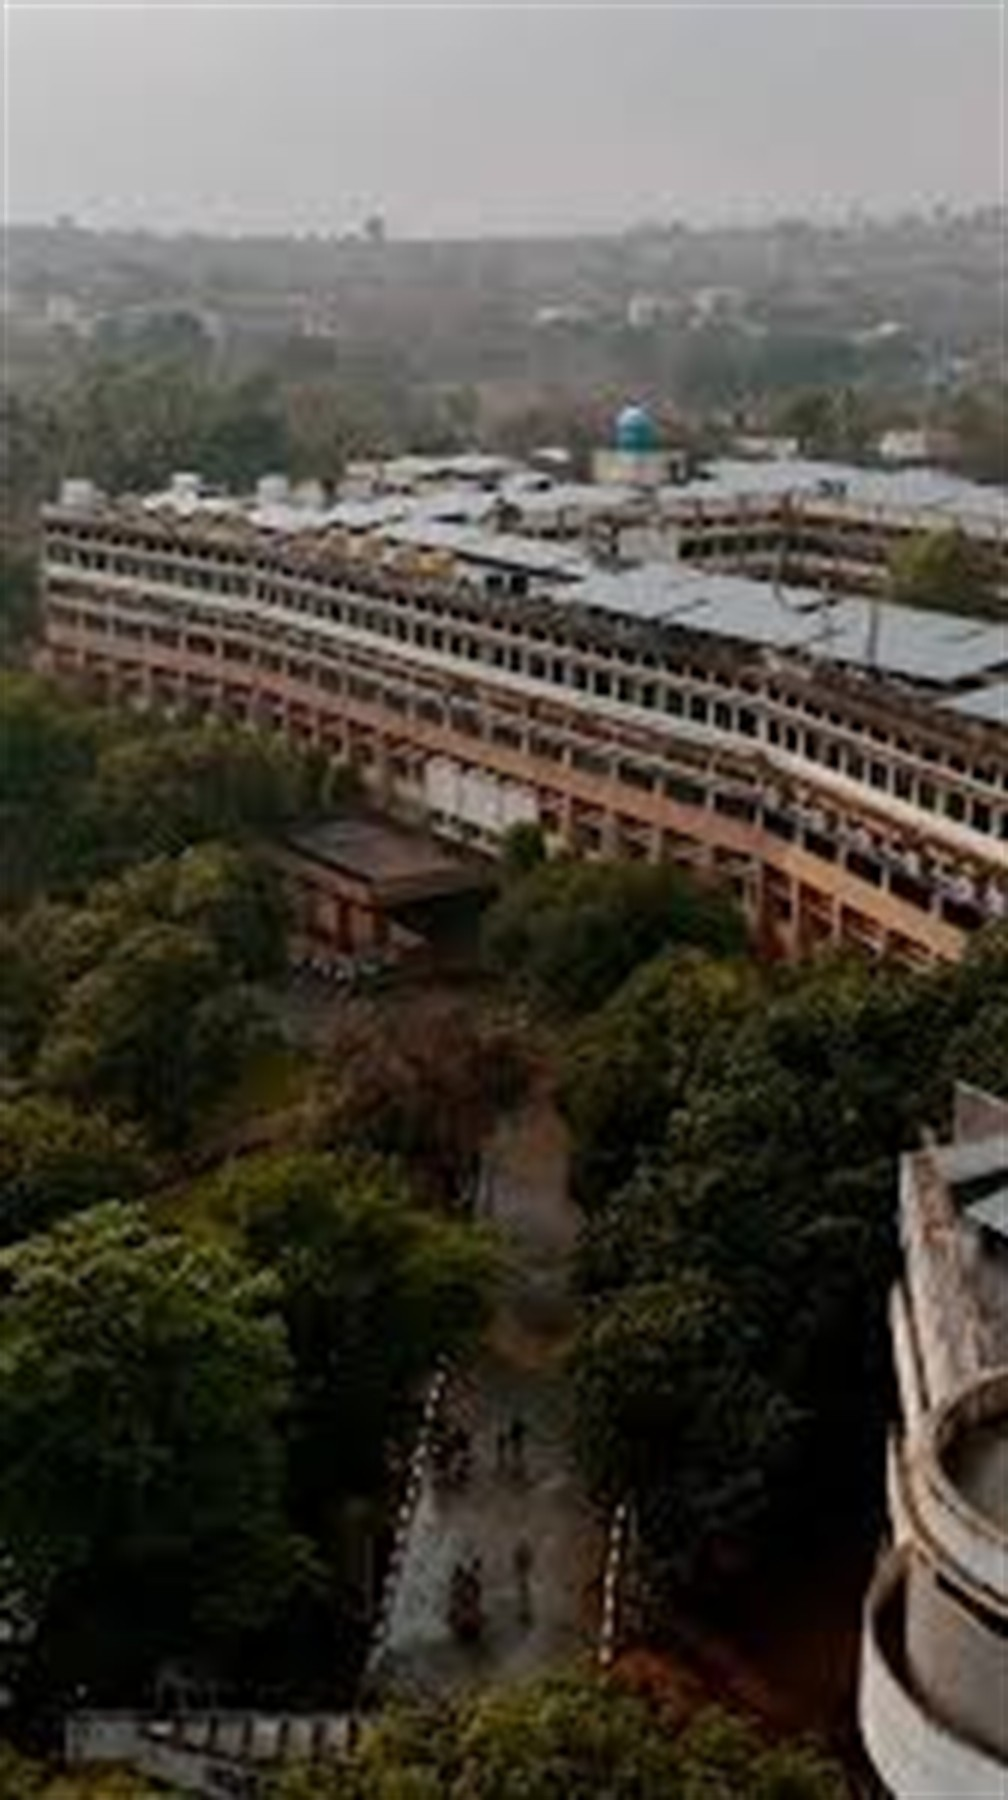
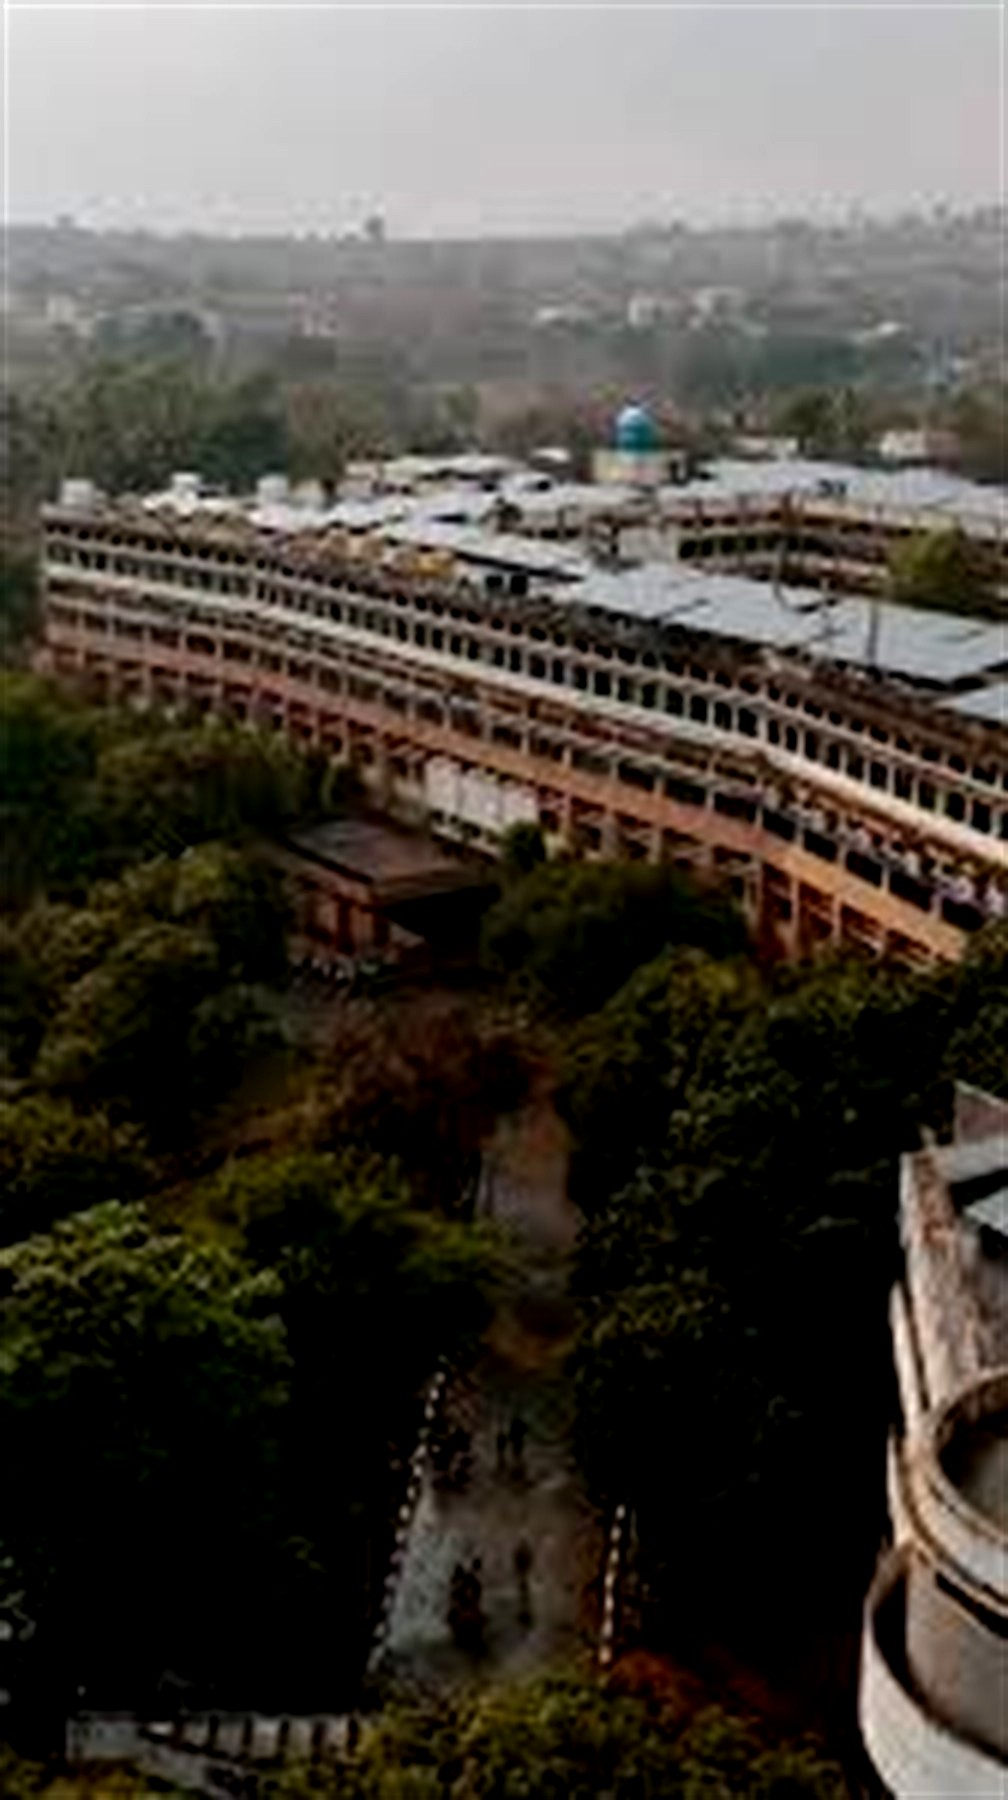
Remove white overlay filters and boost section photo clarity and contrast

Changed region(s): [[0.0, 0.0, 0.0308, 0.0311]]

diff --git a/src/main/resources/static/css/style.css b/src/main/resources/static/css/style.css
@@ -2018,23 +2018,19 @@ tbody td:first-child { color: var(--text-primary); font-weight: 600; }
 .section-aerial-bg,
 .section-entrance-bg {
   position: relative;
-  border: 1.5px solid rgba(226, 232, 240, 0.95);
+  border: 1.5px solid rgba(255, 255, 255, 0.9);
   border-radius: 28px;
   padding: 38px 30px 42px;
   margin-bottom: 55px;
-  box-shadow: 0 14px 42px -6px rgba(15, 23, 42, 0.10), 0 0 1px 1px rgba(15, 23, 42, 0.04);
+  box-shadow: 0 16px 45px rgba(15, 23, 42, 0.14);
 }
 
 .section-aerial-bg {
-  background: 
-    linear-gradient(180deg, rgba(255, 255, 255, 0.24) 0%, rgba(248, 250, 252, 0.36) 45%, rgba(241, 245, 249, 0.52) 100%),
-    url('/images/kls_git_aerial.jpg') center top / cover no-repeat;
+  background: url('/images/kls_git_aerial.jpg') center top / cover no-repeat !important;
 }
 
 .section-entrance-bg {
-  background: 
-    linear-gradient(180deg, rgba(255, 255, 255, 0.20) 0%, rgba(248, 250, 252, 0.32) 45%, rgba(241, 245, 249, 0.48) 100%),
-    url('/images/kls_git_entrance.jpg') center center / cover no-repeat;
+  background: url('/images/kls_git_entrance.jpg') center center / cover no-repeat !important;
 }
 
 @media (max-width: 768px) {
@@ -2047,14 +2043,14 @@ tbody td:first-child { color: var(--text-primary); font-weight: 600; }
 }
 
 .section-header-badge-box {
-  background: rgba(255, 255, 255, 0.94);
-  backdrop-filter: blur(16px);
-  -webkit-backdrop-filter: blur(16px);
-  border: 1.5px solid rgba(255, 255, 255, 0.95);
-  border-radius: 18px;
-  padding: 16px 24px;
+  background: rgba(255, 255, 255, 0.96) !important;
+  backdrop-filter: blur(20px) !important;
+  -webkit-backdrop-filter: blur(20px) !important;
+  border: 1.5px solid rgba(255, 255, 255, 1) !important;
+  border-radius: 20px;
+  padding: 16px 26px;
   margin-bottom: 24px;
-  box-shadow: 0 6px 22px rgba(15, 23, 42, 0.08);
+  box-shadow: 0 8px 24px rgba(0, 0, 0, 0.12) !important;
   display: inline-block;
 }
 
@@ -2065,8 +2061,8 @@ tbody td:first-child { color: var(--text-primary); font-weight: 600; }
 .section-entrance-bg .club-showcase-card,
 .section-entrance-bg .compact-calendar-widget {
   background: #ffffff !important;
-  border: 1px solid rgba(226, 232, 240, 0.95) !important;
-  box-shadow: 0 10px 30px rgba(15, 23, 42, 0.11) !important;
+  border: 1.5px solid rgba(226, 232, 240, 0.95) !important;
+  box-shadow: 0 12px 35px rgba(0, 0, 0, 0.16) !important;
 }
 
 .section-aerial-bg .event-card:hover,
@@ -2074,16 +2070,15 @@ tbody td:first-child { color: var(--text-primary); font-weight: 600; }
 .section-entrance-bg .event-card:hover,
 .section-entrance-bg .club-showcase-card:hover {
   transform: translateY(-4px);
-  box-shadow: 0 18px 38px rgba(15, 23, 42, 0.16) !important;
+  box-shadow: 0 18px 40px rgba(0, 0, 0, 0.22) !important;
 }
 
 .section-aerial-bg .filter-chip,
 .section-entrance-bg .filter-chip {
-  background: rgba(255, 255, 255, 0.95);
-  backdrop-filter: blur(10px);
-  -webkit-backdrop-filter: blur(10px);
-  border: 1.5px solid rgba(203, 213, 225, 0.95);
-  box-shadow: 0 3px 12px rgba(15, 23, 42, 0.07);
+  background: #ffffff !important;
+  border: 1.5px solid rgba(203, 213, 225, 0.95) !important;
+  box-shadow: 0 3px 12px rgba(0, 0, 0, 0.10) !important;
+  font-weight: 600 !important;
 }
 
 .section-aerial-bg .filter-chip.active,
@@ -2091,7 +2086,7 @@ tbody td:first-child { color: var(--text-primary); font-weight: 600; }
   background: var(--gradient-main) !important;
   color: #ffffff !important;
   border-color: transparent !important;
-  box-shadow: 0 4px 16px rgba(124, 58, 237, 0.38) !important;
+  box-shadow: 0 4px 16px rgba(124, 58, 237, 0.40) !important;
 }
 
 /* Interactive Calendar Grid */

diff --git a/src/main/resources/static/index.html b/src/main/resources/static/index.html
@@ -6,7 +6,7 @@
   <title>KLS Gogte Institute of Technology, Belgaum — Campus Activity Hub</title>
   <meta name="description" content="Official Activity Hub for KLS Gogte Institute of Technology, Belgaum (KLS GIT Belagavi). Explore student clubs, hackathons, workshops, and verified credentials." />
   <link rel="icon" type="image/png" href="/images/kls_git_logo.png" />
-  <link rel="stylesheet" href="/css/style.css?v=20260906_v23" />
+  <link rel="stylesheet" href="/css/style.css?v=20260906_v24" />
 </head>
 <body>
 
@@ -93,7 +93,7 @@
 <main class="page-container" style="max-width: 1280px; margin: 40px auto; padding: 0 24px;">
 
   <!-- Section 1: Upcoming Events -->
-  <section id="events-section" class="section-aerial-bg" style="margin-bottom: 60px; background: linear-gradient(180deg, rgba(255, 255, 255, 0.24) 0%, rgba(248, 250, 252, 0.36) 45%, rgba(241, 245, 249, 0.52) 100%), url('/images/kls_git_aerial.jpg') center top / cover no-repeat !important;">
+  <section id="events-section" class="section-aerial-bg" style="margin-bottom: 60px; background: url('/images/kls_git_aerial.jpg') center top / cover no-repeat !important;">
     <div class="section-header-badge-box">
       <h2 style="font-size: 1.8rem; font-weight: 800; margin: 0; color: var(--text-primary);">
         🔥 Upcoming Campus Events
@@ -123,7 +123,7 @@
   </section>
 
   <!-- Section 2: Campus Clubs Showcase -->
-  <section id="clubs-section" class="section-entrance-bg" style="margin-bottom: 60px; background: linear-gradient(180deg, rgba(255, 255, 255, 0.20) 0%, rgba(248, 250, 252, 0.32) 45%, rgba(241, 245, 249, 0.48) 100%), url('/images/kls_git_entrance.jpg') center center / cover no-repeat !important;">
+  <section id="clubs-section" class="section-entrance-bg" style="margin-bottom: 60px; background: url('/images/kls_git_entrance.jpg') center center / cover no-repeat !important;">
     <div class="section-header-badge-box">
       <h2 style="font-size: 1.8rem; font-weight: 800; margin: 0; color: var(--text-primary);">
         🏛 Featured Student Societies & Clubs
@@ -142,7 +142,7 @@
   </section>
 
   <!-- Section 3: Campus Calendar (Compact Widget) -->
-  <section id="calendar-section" class="section-aerial-bg" style="margin-bottom: 40px; background: linear-gradient(180deg, rgba(255, 255, 255, 0.24) 0%, rgba(248, 250, 252, 0.36) 45%, rgba(241, 245, 249, 0.52) 100%), url('/images/kls_git_aerial.jpg') center top / cover no-repeat !important;">
+  <section id="calendar-section" class="section-aerial-bg" style="margin-bottom: 40px; background: url('/images/kls_git_aerial.jpg') center top / cover no-repeat !important;">
     <div class="section-header-badge-box" style="display:flex; align-items:center; gap:10px; justify-content:space-between; flex-wrap:wrap; width: 100%;">
       <div>
         <h3 style="font-size: 1.25rem; font-weight: 800; margin: 0; color: var(--text-primary);">
